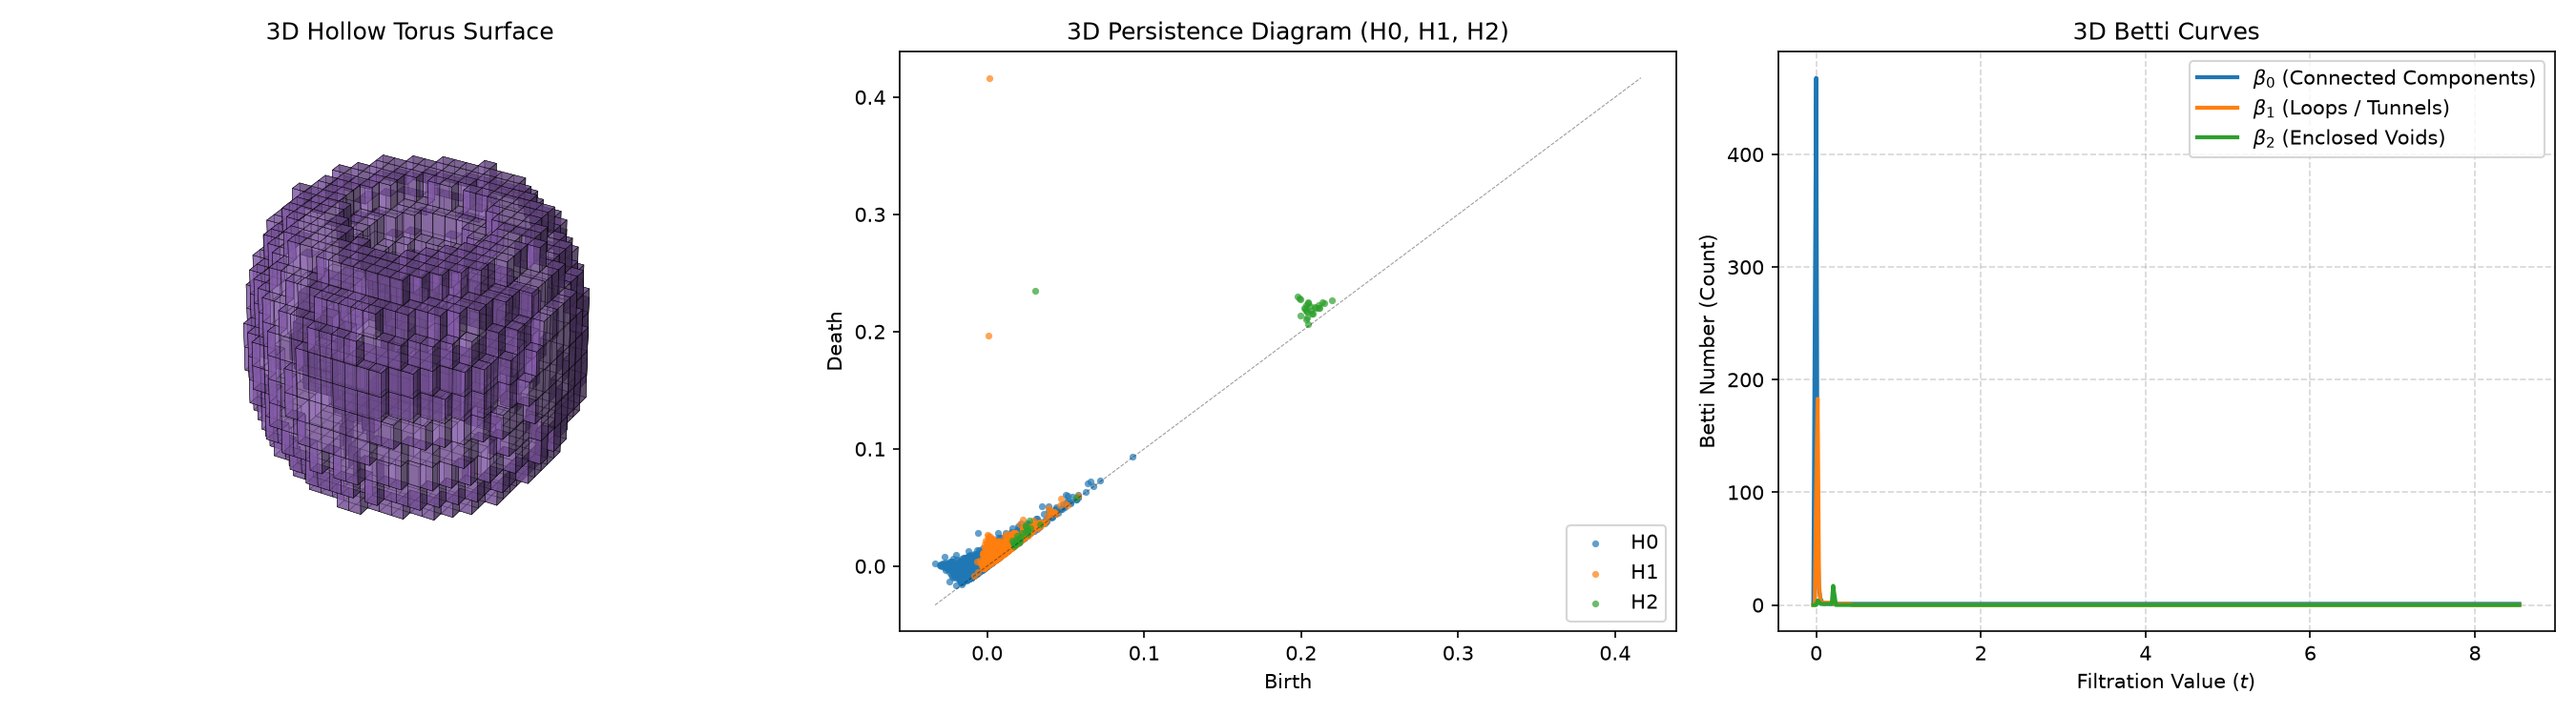
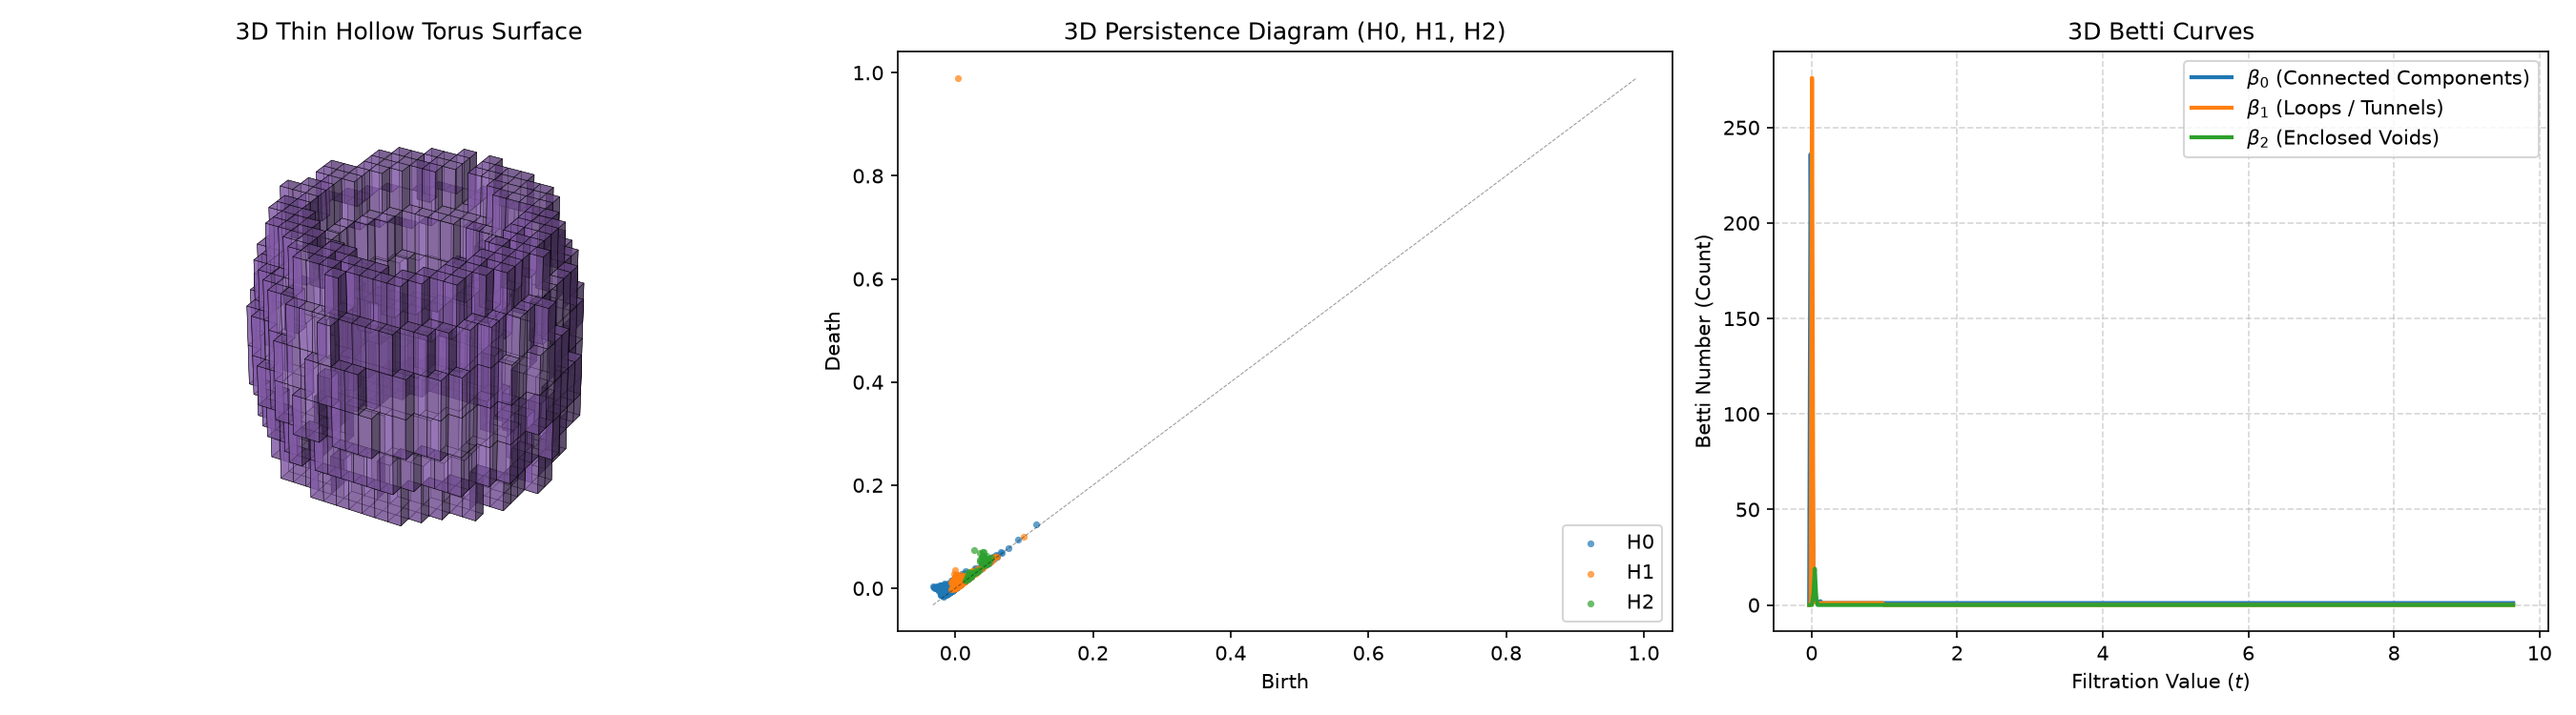
docs: use a highly distinctive thin-width torus for 3D topological pipeline

diff --git a/README.md b/README.md
@@ -57,7 +57,7 @@ The following figure displays a complete 3-dimensional Topological Data Analysis
 ![3D Torus TDA Pipeline](doc/images/torus_3d_tda.png)
 
 ### Description of the Panels
-1.  **3D Hollow Torus Surface**: Shows the 3D voxel contour representation of the hollow torus shell of major radius $R=1.2$ and minor radius $r=0.5$. The shell has a low filtration value ($\approx 0.0$), while the inside of the tube, the central hole, and the exterior space have higher values ($\ge 1.0$).
+1.  **3D Hollow Torus Surface**: Shows the 3D voxel contour representation of the hollow torus shell of major radius $R=1.3$ and thin minor radius $r=0.25$. The shell has a low filtration value ($\approx 0.0$), while the inside of the tube, the central hole, and the exterior space have higher values ($\ge 1.0$).
 2.  **3D Persistence Diagram (H0, H1, H2)**: Computes the births and deaths of topological structures across all three dimensions simultaneously:
     *   **$H_0$ (Connected Components)**: Born along the low-value torus shell valley. $1$ robust component (born at $\approx 0.0$, dying at $+\infty$) persists.
     *   **$H_1$ (Loops / Tunnels)**: Two distinct topological tunnels are born at $t \approx 0.0$: one loop wraps around the main ring, and another wraps inside the tube.
